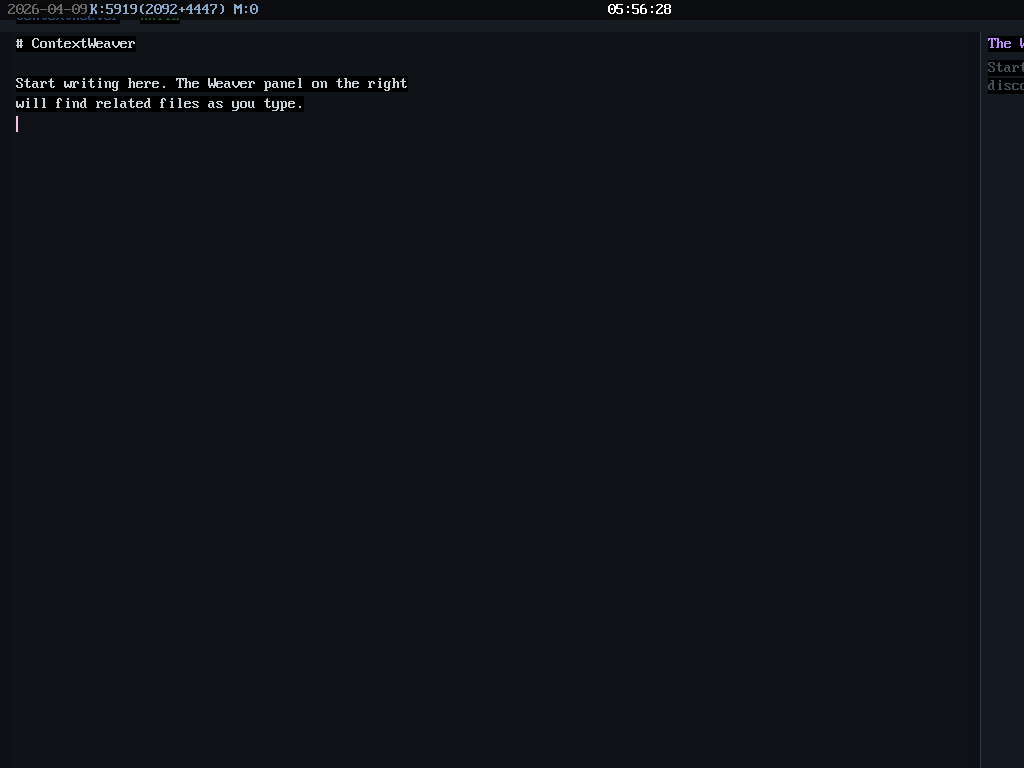
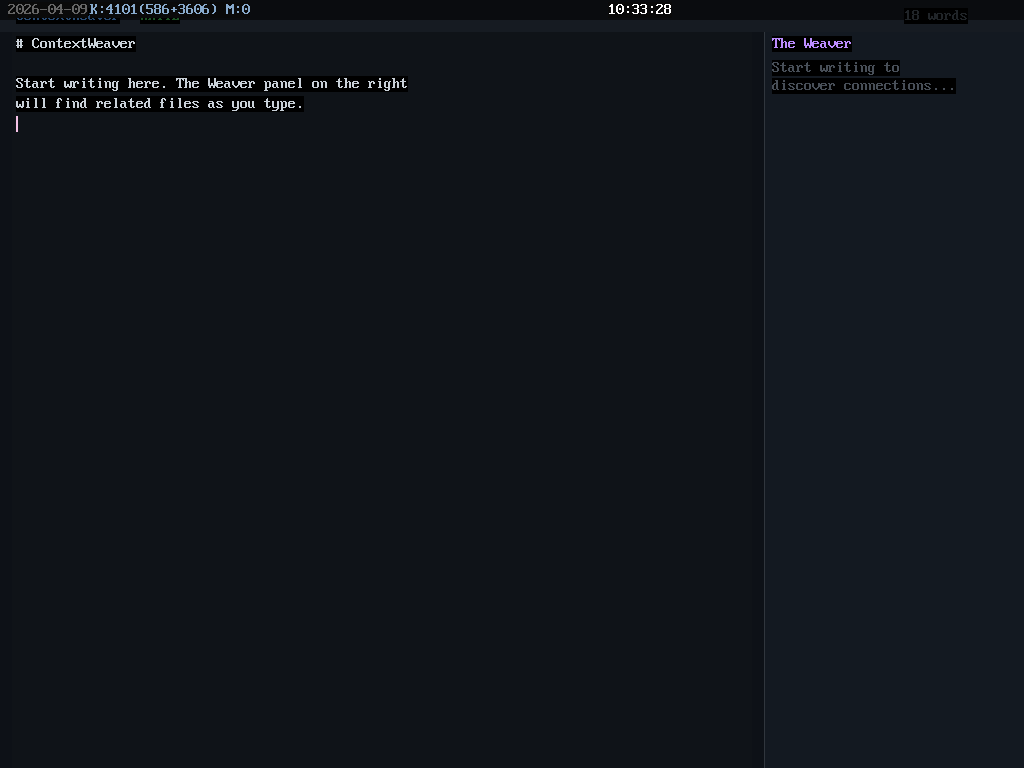
fix: ContextWeaver layout — Weaver panel now fully visible in screenshots
The Weaver sidebar was clipped at x=980 because VGA mirror captures
1024px but VirtIO-GPU renders at 1280px. Fixed by clamping layout
to min(screen_width, 1024) so the right panel fits within the
screendump capture area.

Before: "The W..." / "Star..." / "disc..." (cut off at right edge)
After:  "The Weaver" / "Start writing to discover connections..."

diff --git a/apps/context_weaver/src/lib.rs b/apps/context_weaver/src/lib.rs
@@ -53,7 +53,7 @@ const LINK_ACTIVE: i32 = 0x213352;
 const STATUS_BG: i32 = 0x161B22;
 
 // Layout
-const WEAVER_W: i32 = 300; // right panel width
+const WEAVER_W: i32 = 260; // right panel width (fits 1024px VGA mirror)
 const STATUS_H: i32 = 20;
 const TOP_H: i32 = 32;
 const MARGIN: i32 = 16;
@@ -445,7 +445,9 @@ unsafe fn find_next_newline(pos: usize) -> usize {
 unsafe fn render() {
     let sw = folk_screen_width();
     let sh = folk_screen_height();
-    let editor_w = sw - WEAVER_W;
+    // Clamp to 1024 for VGA mirror compatibility (VirtIO-GPU is 1280 but screendump is 1024)
+    let usable_w = if sw > 1024 { 1024 } else { sw };
+    let editor_w = usable_w - WEAVER_W;
 
     folk_fill_screen(BG);
 
@@ -465,7 +467,7 @@ unsafe fn render() {
     let wc = word_count();
     let mut wc_buf = [0u8; 16];
     let wc_len = { let mut m = Msg::new(&mut wc_buf); m.u32(wc as u32); m.s(b" words"); m.len() };
-    draw(sw - 120, 8, &wc_buf[..wc_len], TEXT_DIM);
+    draw(usable_w - 120, 8, &wc_buf[..wc_len], TEXT_DIM);
 
     // ── Editor panel ──
     let ed_x = MARGIN;
@@ -526,6 +528,7 @@ unsafe fn render() {
 
     // ── Vertical divider ──
     folk_draw_line(editor_w, TOP_H, editor_w, sh - STATUS_H, BORDER);
+    // All right-panel drawing uses editor_w as left edge (fits in usable_w)
 
     // ── Weaver panel (right) ──
     let wx = editor_w + 8;
